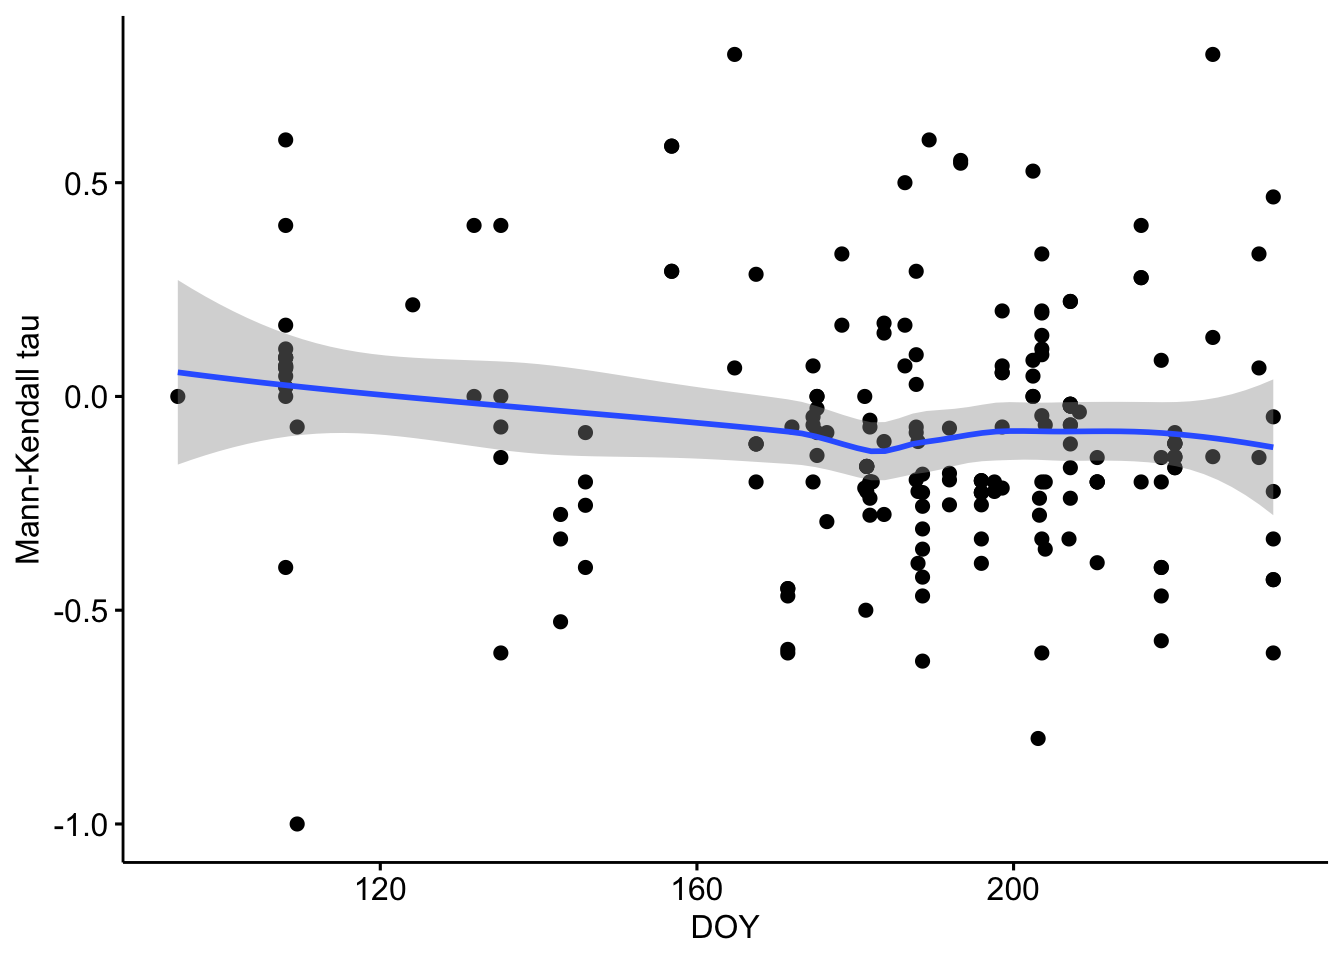
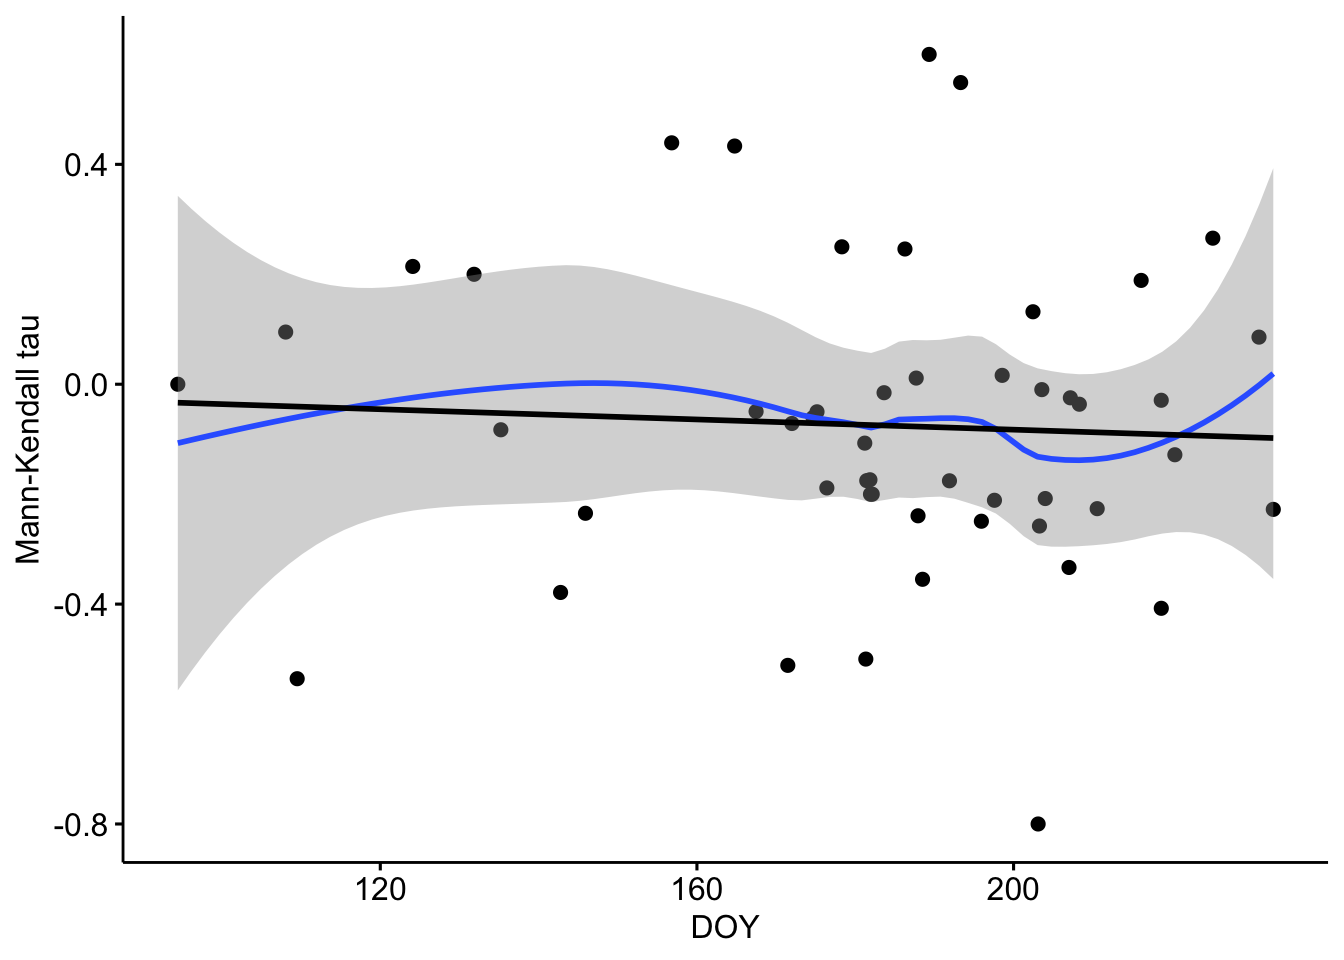
Build site.

diff --git a/docs/analysis_peak.html b/docs/analysis_peak.html
@@ -529,15 +529,15 @@ project makes it easier to run your code on other machines.</p>
 <div class="panel panel-default">
 <div class="panel-heading">
 <p class="panel-title">
-<a data-toggle="collapse" data-parent="#workflowr-checks" href="#strongRepositoryversionstrongahrefhttpsgithubcomajpelumsmariposasphenotree2b31d242784c1a238bdf9c36c11d316a5bf1280atargetblank2b31d24a">
+<a data-toggle="collapse" data-parent="#workflowr-checks" href="#strongRepositoryversionstrongahrefhttpsgithubcomajpelumsmariposasphenotree41ef77d27efae3b6d237a0cc85e3a7e65950b6b8targetblank41ef77da">
 <span class="glyphicon glyphicon-ok text-success"
 aria-hidden="true"></span> <strong>Repository version:</strong>
-<a href="https://github.com/ajpelu/ms_mariposas_pheno/tree/2b31d242784c1a238bdf9c36c11d316a5bf1280a" target="_blank">2b31d24</a>
+<a href="https://github.com/ajpelu/ms_mariposas_pheno/tree/41ef77d27efae3b6d237a0cc85e3a7e65950b6b8" target="_blank">41ef77d</a>
 </a>
 </p>
 </div>
 <div
[2 lines of base64/hex data omitted]
 class="panel-collapse collapse">
 <div class="panel-body">
 <p>
@@ -547,7 +547,7 @@ reproducibility.
 </p>
 <p>
 The results in this page were generated with repository version
-<a href="https://github.com/ajpelu/ms_mariposas_pheno/tree/2b31d242784c1a238bdf9c36c11d316a5bf1280a" target="_blank">2b31d24</a>.
+<a href="https://github.com/ajpelu/ms_mariposas_pheno/tree/41ef77d27efae3b6d237a0cc85e3a7e65950b6b8" target="_blank">41ef77d</a>.
 See the <em>Past versions</em> tab to see a history of the changes made
 to the R Markdown and HTML files.
 </p>
@@ -612,6 +612,40 @@ Message
 </tr>
 </thead>
 <tbody>
+<tr>
+<td>
+Rmd
+</td>
+<td>
+<a href="https://github.com/ajpelu/ms_mariposas_pheno/blob/41ef77d27efae3b6d237a0cc85e3a7e65950b6b8/analysis/analysis_peak.Rmd" target="_blank">41ef77d</a>
+</td>
+<td>
+ajpelu
+</td>
+<td>
+2023-06-05
+</td>
+<td>
+add mean doy vs trend
+</td>
+</tr>
+<tr>
+<td>
+html
+</td>
+<td>
+<a href="https://rawcdn.githack.com/ajpelu/ms_mariposas_pheno/c48398889e07c34467ec7484a13acbbb49f4b79d/docs/analysis_peak.html" target="_blank">c483988</a>
+</td>
+<td>
+ajpelu
+</td>
+<td>
+2023-06-05
+</td>
+<td>
+Build site.
+</td>
+</tr>
 <tr>
 <td>
 Rmd
@@ -983,6 +1017,17 @@ Date
 <tbody>
 <tr>
 <td>
+<a href="https://github.com/ajpelu/ms_mariposas_pheno/blob/c48398889e07c34467ec7484a13acbbb49f4b79d/docs/figure/analysis_peak.Rmd/unnamed-chunk-13-1.png" target="_blank">c483988</a>
+</td>
+<td>
+ajpelu
+</td>
+<td>
+2023-06-05
+</td>
+</tr>
+<tr>
+<td>
 <a href="https://github.com/ajpelu/ms_mariposas_pheno/blob/0e4287f4311473b9467a08e12c22218e22fe0d7d/docs/figure/analysis_peak.Rmd/unnamed-chunk-13-1.png" target="_blank">0e4287f</a>
 </td>
 <td>
@@ -1006,6 +1051,43 @@ ajpelu
    stat_cor(method = &quot;pearson&quot;)</code></pre>
 <pre><code>`geom_smooth()` using formula = &#39;y ~ x&#39;</code></pre>
 <p><img src="figure/analysis_peak.Rmd/unnamed-chunk-14-1.png" width="672" style="display: block; margin: auto;" /></p>
+<p>
+<button type="button" class="btn btn-default btn-xs btn-workflowr btn-workflowr-fig" data-toggle="collapse" data-target="#fig-unnamed-chunk-14-1">
+Past versions of unnamed-chunk-14-1.png
+</button>
+</p>
+<div id="fig-unnamed-chunk-14-1" class="collapse">
+<div class="table-responsive">
+<table class="table table-condensed table-hover">
+<thead>
+<tr>
+<th>
+Version
+</th>
+<th>
+Author
+</th>
+<th>
+Date
+</th>
+</tr>
+</thead>
+<tbody>
+<tr>
+<td>
+<a href="https://github.com/ajpelu/ms_mariposas_pheno/blob/c48398889e07c34467ec7484a13acbbb49f4b79d/docs/figure/analysis_peak.Rmd/unnamed-chunk-14-1.png" target="_blank">c483988</a>
+</td>
+<td>
+ajpelu
+</td>
+<td>
+2023-06-05
+</td>
+</tr>
+</tbody>
+</table>
+</div>
+</div>
 </div>
 <div id="explore-by-timing-of-the-maximum" class="section level4">
 <h4>Explore by timing of the maximum</h4>
@@ -1050,6 +1132,43 @@ ajpelu
   scale_y_continuous(breaks = seq(0, max(df_doy$doy), by = 20)) </code></pre>
 <pre><code>Warning: Removed 3 rows containing missing values (`geom_segment()`).</code></pre>
 <p><img src="figure/analysis_peak.Rmd/unnamed-chunk-17-1.png" width="672" style="display: block; margin: auto;" /></p>
+<p>
+<button type="button" class="btn btn-default btn-xs btn-workflowr btn-workflowr-fig" data-toggle="collapse" data-target="#fig-unnamed-chunk-17-1">
+Past versions of unnamed-chunk-17-1.png
+</button>
+</p>
+<div id="fig-unnamed-chunk-17-1" class="collapse">
+<div class="table-responsive">
+<table class="table table-condensed table-hover">
+<thead>
+<tr>
+<th>
+Version
+</th>
+<th>
+Author
+</th>
+<th>
+Date
+</th>
+</tr>
+</thead>
+<tbody>
+<tr>
+<td>
+<a href="https://github.com/ajpelu/ms_mariposas_pheno/blob/c48398889e07c34467ec7484a13acbbb49f4b79d/docs/figure/analysis_peak.Rmd/unnamed-chunk-17-1.png" target="_blank">c483988</a>
+</td>
+<td>
+ajpelu
+</td>
+<td>
+2023-06-05
+</td>
+</tr>
+</tbody>
+</table>
+</div>
+</div>
 <p>Only for selected species</p>
 <pre class="r"><code>df_doy |&gt; 
   filter(species %in% selected_sp$sp) |&gt; 
@@ -1065,12 +1184,59 @@ ajpelu
   scale_y_continuous(breaks = seq(0, max(df_doy$doy), by = 20)) </code></pre>
 <pre><code>Warning: Removed 2 rows containing missing values (`geom_segment()`).</code></pre>
 <p><img src="figure/analysis_peak.Rmd/unnamed-chunk-18-1.png" width="672" style="display: block; margin: auto;" /></p>
+<p>
+<button type="button" class="btn btn-default btn-xs btn-workflowr btn-workflowr-fig" data-toggle="collapse" data-target="#fig-unnamed-chunk-18-1">
+Past versions of unnamed-chunk-18-1.png
+</button>
+</p>
+<div id="fig-unnamed-chunk-18-1" class="collapse">
+<div class="table-responsive">
+<table class="table table-condensed table-hover">
+<thead>
+<tr>
+<th>
+Version
+</th>
+<th>
+Author
+</th>
+<th>
+Date
+</th>
+</tr>
+</thead>
+<tbody>
+<tr>
+<td>
+<a href="https://github.com/ajpelu/ms_mariposas_pheno/blob/c48398889e07c34467ec7484a13acbbb49f4b79d/docs/figure/analysis_peak.Rmd/unnamed-chunk-18-1.png" target="_blank">c483988</a>
+</td>
+<td>
+ajpelu
+</td>
+<td>
+2023-06-05
+</td>
+</tr>
+</tbody>
+</table>
+</div>
+</div>
 </div>
 </div>
 <div id="explore-by-doy_mean" class="section level3">
 <h3>Explore by doy_mean</h3>
-<pre class="r"><code>d &lt;- inner_join(
-  df_trends_selected, 
+<pre class="r"><code>df_trends_selected_mean &lt;- df_trends_selected |&gt; 
+  group_by(species) |&gt; 
+  summarise(tau_mean = mean(mk_tau),
+            tau_sd = sd(mk_tau, na.rm = TRUE),
+            ta_se = sd(mk_tau, na.rm = TRUE) / sqrt(n()),
+            sen_mean = mean(sen_slope),
+            sen_sd = sd(sen_slope, na.rm = TRUE),
+            sen_se = sd(sen_slope, na.rm = TRUE) / sqrt(n())
+            )
+
+d &lt;- inner_join(
+  df_trends_selected_mean, 
   (doy_mean |&gt; 
   rename(doy_mean = mean, 
          doy_se = se, 
@@ -1078,7 +1244,7 @@ ajpelu
 )</code></pre>
 <pre><code>Joining with `by = join_by(species)`</code></pre>
 <pre class="r"><code>d |&gt; 
-  ggplot(aes(doy_mean, y = sen_slope)) +
+  ggplot(aes(doy_mean, y = sen_mean)) +
   geom_point() + 
   theme_bw() +
   geom_smooth() +
@@ -1092,19 +1258,97 @@ ajpelu
   xlab(&quot;DOY&quot;) + 
   ylab(&quot;Sen&#39;s slope&quot;)</code></pre>
 <pre class="r"><code>ggscatter(d, 
-          x = &quot;doy_mean&quot;, y = &quot;mk_tau&quot;, 
+          x = &quot;doy_mean&quot;, y = &quot;tau_mean&quot;, 
           conf.int = TRUE, 
           xlab = &quot;DOY&quot;, 
           ylab = &quot;Mann-Kendall tau&quot;) +
-   geom_smooth(method = &quot;loess&quot;, formula = y ~ x)</code></pre>
+   geom_smooth(method = &quot;loess&quot;, formula = y ~ x) +
+  geom_smooth(method = &quot;lm&quot;, se = FALSE, colour = &quot;black&quot;) </code></pre>
+<pre><code>`geom_smooth()` using formula = &#39;y ~ x&#39;</code></pre>
 <p><img src="figure/analysis_peak.Rmd/unnamed-chunk-22-1.png" width="672" style="display: block; margin: auto;" /></p>
+<p>
+<button type="button" class="btn btn-default btn-xs btn-workflowr btn-workflowr-fig" data-toggle="collapse" data-target="#fig-unnamed-chunk-22-1">
+Past versions of unnamed-chunk-22-1.png
+</button>
+</p>
+<div id="fig-unnamed-chunk-22-1" class="collapse">
+<div class="table-responsive">
+<table class="table table-condensed table-hover">
+<thead>
+<tr>
+<th>
+Version
+</th>
+<th>
+Author
+</th>
+<th>
+Date
+</th>
+</tr>
+</thead>
+<tbody>
+<tr>
+<td>
+<a href="https://github.com/ajpelu/ms_mariposas_pheno/blob/c48398889e07c34467ec7484a13acbbb49f4b79d/docs/figure/analysis_peak.Rmd/unnamed-chunk-22-1.png" target="_blank">c483988</a>
+</td>
+<td>
+ajpelu
+</td>
+<td>
+2023-06-05
+</td>
+</tr>
+</tbody>
+</table>
+</div>
+</div>
 <pre class="r"><code>ggscatter(d, 
-          x = &quot;doy_mean&quot;, y = &quot;sen_slope&quot;, 
+          x = &quot;doy_mean&quot;, y = &quot;sen_mean&quot;, 
           conf.int = TRUE, 
           xlab = &quot;DOY&quot;, 
           ylab = &quot;Sen&#39;s Slope&quot;) +
-   geom_smooth(method = &quot;loess&quot;, formula = y ~ x)</code></pre>
+     geom_smooth(method = &quot;loess&quot;, formula = y ~ x) +
+  geom_smooth(method = &quot;lm&quot;, se = FALSE, colour = &quot;black&quot;) </code></pre>
+<pre><code>`geom_smooth()` using formula = &#39;y ~ x&#39;</code></pre>
 <p><img src="figure/analysis_peak.Rmd/unnamed-chunk-23-1.png" width="672" style="display: block; margin: auto;" /></p>
+<p>
+<button type="button" class="btn btn-default btn-xs btn-workflowr btn-workflowr-fig" data-toggle="collapse" data-target="#fig-unnamed-chunk-23-1">
+Past versions of unnamed-chunk-23-1.png
+</button>
+</p>
+<div id="fig-unnamed-chunk-23-1" class="collapse">
+<div class="table-responsive">
+<table class="table table-condensed table-hover">
+<thead>
+<tr>
+<th>
+Version
+</th>
+<th>
+Author
+</th>
+<th>
+Date
+</th>
+</tr>
+</thead>
+<tbody>
+<tr>
+<td>
+<a href="https://github.com/ajpelu/ms_mariposas_pheno/blob/c48398889e07c34467ec7484a13acbbb49f4b79d/docs/figure/analysis_peak.Rmd/unnamed-chunk-23-1.png" target="_blank">c483988</a>
+</td>
+<td>
+ajpelu
+</td>
+<td>
+2023-06-05
+</td>
+</tr>
+</tbody>
+</table>
+</div>
+</div>
 <br>
 <p>
 <button type="button" class="btn btn-default btn-workflowr btn-workflowr-sessioninfo" data-toggle="collapse" data-target="#workflowr-sessioninfo" style="display: block;">
